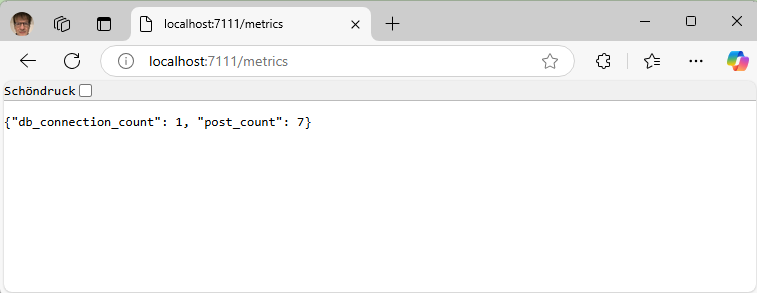
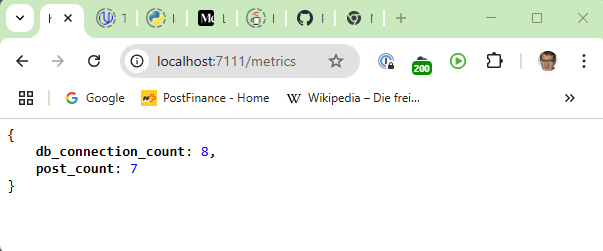
techtrends exercise reworked to pass 3rd review

diff --git a/project/techtrends/app.py b/project/techtrends/app.py
@@ -1,4 +1,4 @@
-import sqlite3, logging
+import sqlite3, logging, sys
 
 from flask import Flask, jsonify, json, render_template, request, url_for, redirect, flash
 from werkzeug.exceptions import abort
@@ -9,14 +9,14 @@ from werkzeug.exceptions import abort
 def get_db_connection():
     connection = sqlite3.connect('database.db')
     connection.row_factory = sqlite3.Row
+    app.config['conn_count'] += 1
     return connection
 
 # Function to get a post using its ID
-def get_post(post_id, conn_count):
+def get_post(post_id):
     connection = get_db_connection()
-    conn_count += 1
     post = connection.execute('SELECT * FROM posts WHERE id = ?',
-                        (post_id,)).fetchone()
+                       (post_id,)).fetchone()
     connection.close()
     return post
 
@@ -26,42 +26,36 @@ app = Flask(__name__)
 with app.app_context():
     app.config['conn_count'] = 0
     app.config['posts_count'] = 0
-global conn_count, post_count
-conn_count = app.config['conn_count']
-posts_count = app.config['posts_count']
 
 # Define the main route of the web application
 @app.route('/')
 def index():
-    global conn_count, posts_count
     connection = get_db_connection()
-    conn_count += 1
     posts = connection.execute('SELECT * FROM posts').fetchall()
-    posts_count = len(posts)
+    app.config['posts_count'] = len(posts)
     connection.close()
     return render_template('index.html', posts=posts)
 # Define how each individual article is rendered
 # If the post ID is not found a 404 page is shown
 @app.route('/<int:post_id>')
 def post(post_id):
-    post = get_post(post_id, conn_count)
+    post = get_post(post_id)
     if post is None:
-      logger.error("A non-existing article is accessed and a 404 page is returned.")
-      return render_template('404.html'), 404
+        app.logger.error("A non-existing article is accessed and a 404 page is returned.")
+        return render_template('404.html'), 404
     else:
-      logger.debug("Article post=%s retrieved", post)
-      return render_template('post.html', post=post)
+        app.logger.debug("Article post=%s retrieved", post)
+        return render_template('post.html', post=post)
 
 # Define the About Us page
 @app.route('/about')
 def about():
-    logger.info("The \"About Us\" page is retrieved.")
+    app.logger.info("The \"About Us\" page is retrieved.")
     return render_template('about.html')
 
 # Define the post creation functionality
 @app.route('/create', methods=('GET', 'POST'))
 def create():
-    global conn_count
     if request.method == 'POST':
         title = request.form['title']
         content = request.form['content']
@@ -69,31 +63,49 @@ def create():
             flash('Title is required!')
         else:
             connection = get_db_connection()
-            conn_count += 1
             connection.execute('INSERT INTO posts (title, content) VALUES (?, ?)',
                          (title, content))
             connection.commit()
             connection.close()
-            logger.info("A new article is created. Title: title=%s", title)
+            app.logger.info("A new article is created. Title: title=%s", title)
             return redirect(url_for('index'))
 
     return render_template('create.html')
 
 @app.route('/healthz')
 def healthcheck():
+
+    if healthcheck_db():
+        result = "OK - DB Connection healthy"
+        status_code = "200"
+        app.logger.debug('DB Connection request successful')
+    else:
+        result = "NOK - DB connection broken"
+        status_code = "503"
+        app.logger.warning('DB Connection request failed')
+
     response = app.response_class(
-            response=json.dumps({"result":"OK - healthy"}),
-            status=200,
+            response=json.dumps({"result":result}),
+            status = status_code,
             mimetype='application/json'
     )
-    app.logger.debug('Status request successful')
     return response
+
+
+def healthcheck_db():
+    try:
+        connection = get_db_connection()
+        connection.execute('SELECT 1 FROM posts').fetchone()
+    except Exception as e:
+        print('Exception: {0}'.format(e))
+        return False
+    return True
+
 
 @app.route('/metrics')
 def metrics():
-    global conn_count, posts_count
     response = app.response_class(
-            response=json.dumps({"db_connection_count": conn_count, "post_count": posts_count}),
+            response=json.dumps({"db_connection_count": app.config['conn_count'], "post_count": app.config['posts_count']}),
             status=200,
             mimetype='application/json'
     )
@@ -102,19 +114,32 @@ def metrics():
 
 # start the application on port 3111
 if __name__ == "__main__":
-   logger = logging.getLogger(__name__)
-   logger.setLevel("DEBUG")
-   formatter=logging.Formatter(
-       "{asctime} - {levelname} - {message}",
-       style="{",
-       datefmt="%Y-%m-%d %H:%M")
-   console_handler = logging.StreamHandler()
-   console_handler.setLevel("INFO")
-   console_handler.setFormatter(formatter)
-   file_handler = logging.FileHandler("app.log", mode="a", encoding="utf-8")
-   file_handler.setLevel("DEBUG")
-   file_handler.setFormatter(formatter)
-   logger.addHandler(console_handler)
-   logger.addHandler(file_handler)
+    logger = logging.getLogger(__name__)
+    logger.setLevel("DEBUG")
 
-   app.run(host='0.0.0.0', port='3111')
+    # stream handler
+    # set logger to handle STDOUT and STDERR
+    stdout_handler =  logging.StreamHandler(stream=sys.stdout)
+    stderr_handler =  logging.StreamHandler()
+    handlers = [stderr_handler, stdout_handler]
+    # set default level
+    # stdout_handler.setLevel("INFO")
+    stderr_handler.setLevel("WARNING")
+    # format output
+    format_output = "{asctime} - {levelname} - {message}"
+    logging.basicConfig(format=format_output,  style="{", datefmt="%Y-%m-%d %H:%M", level=logging.DEBUG, handlers=handlers)
+    logger.addHandler(stdout_handler)
+    logger.addHandler(stderr_handler)
+
+    # file handler
+    file_handler = logging.FileHandler("app.log", mode="a", encoding="utf-8")
+    file_handler.setLevel("DEBUG")
+    formatter=logging.Formatter(
+        "{asctime} - {levelname} - {message}",
+        style="{",
+        datefmt="%Y-%m-%d %H:%M"
+    )
+    file_handler.setFormatter(formatter)
+    logger.addHandler(file_handler)
+
+    app.run(host='0.0.0.0', port='3111')
